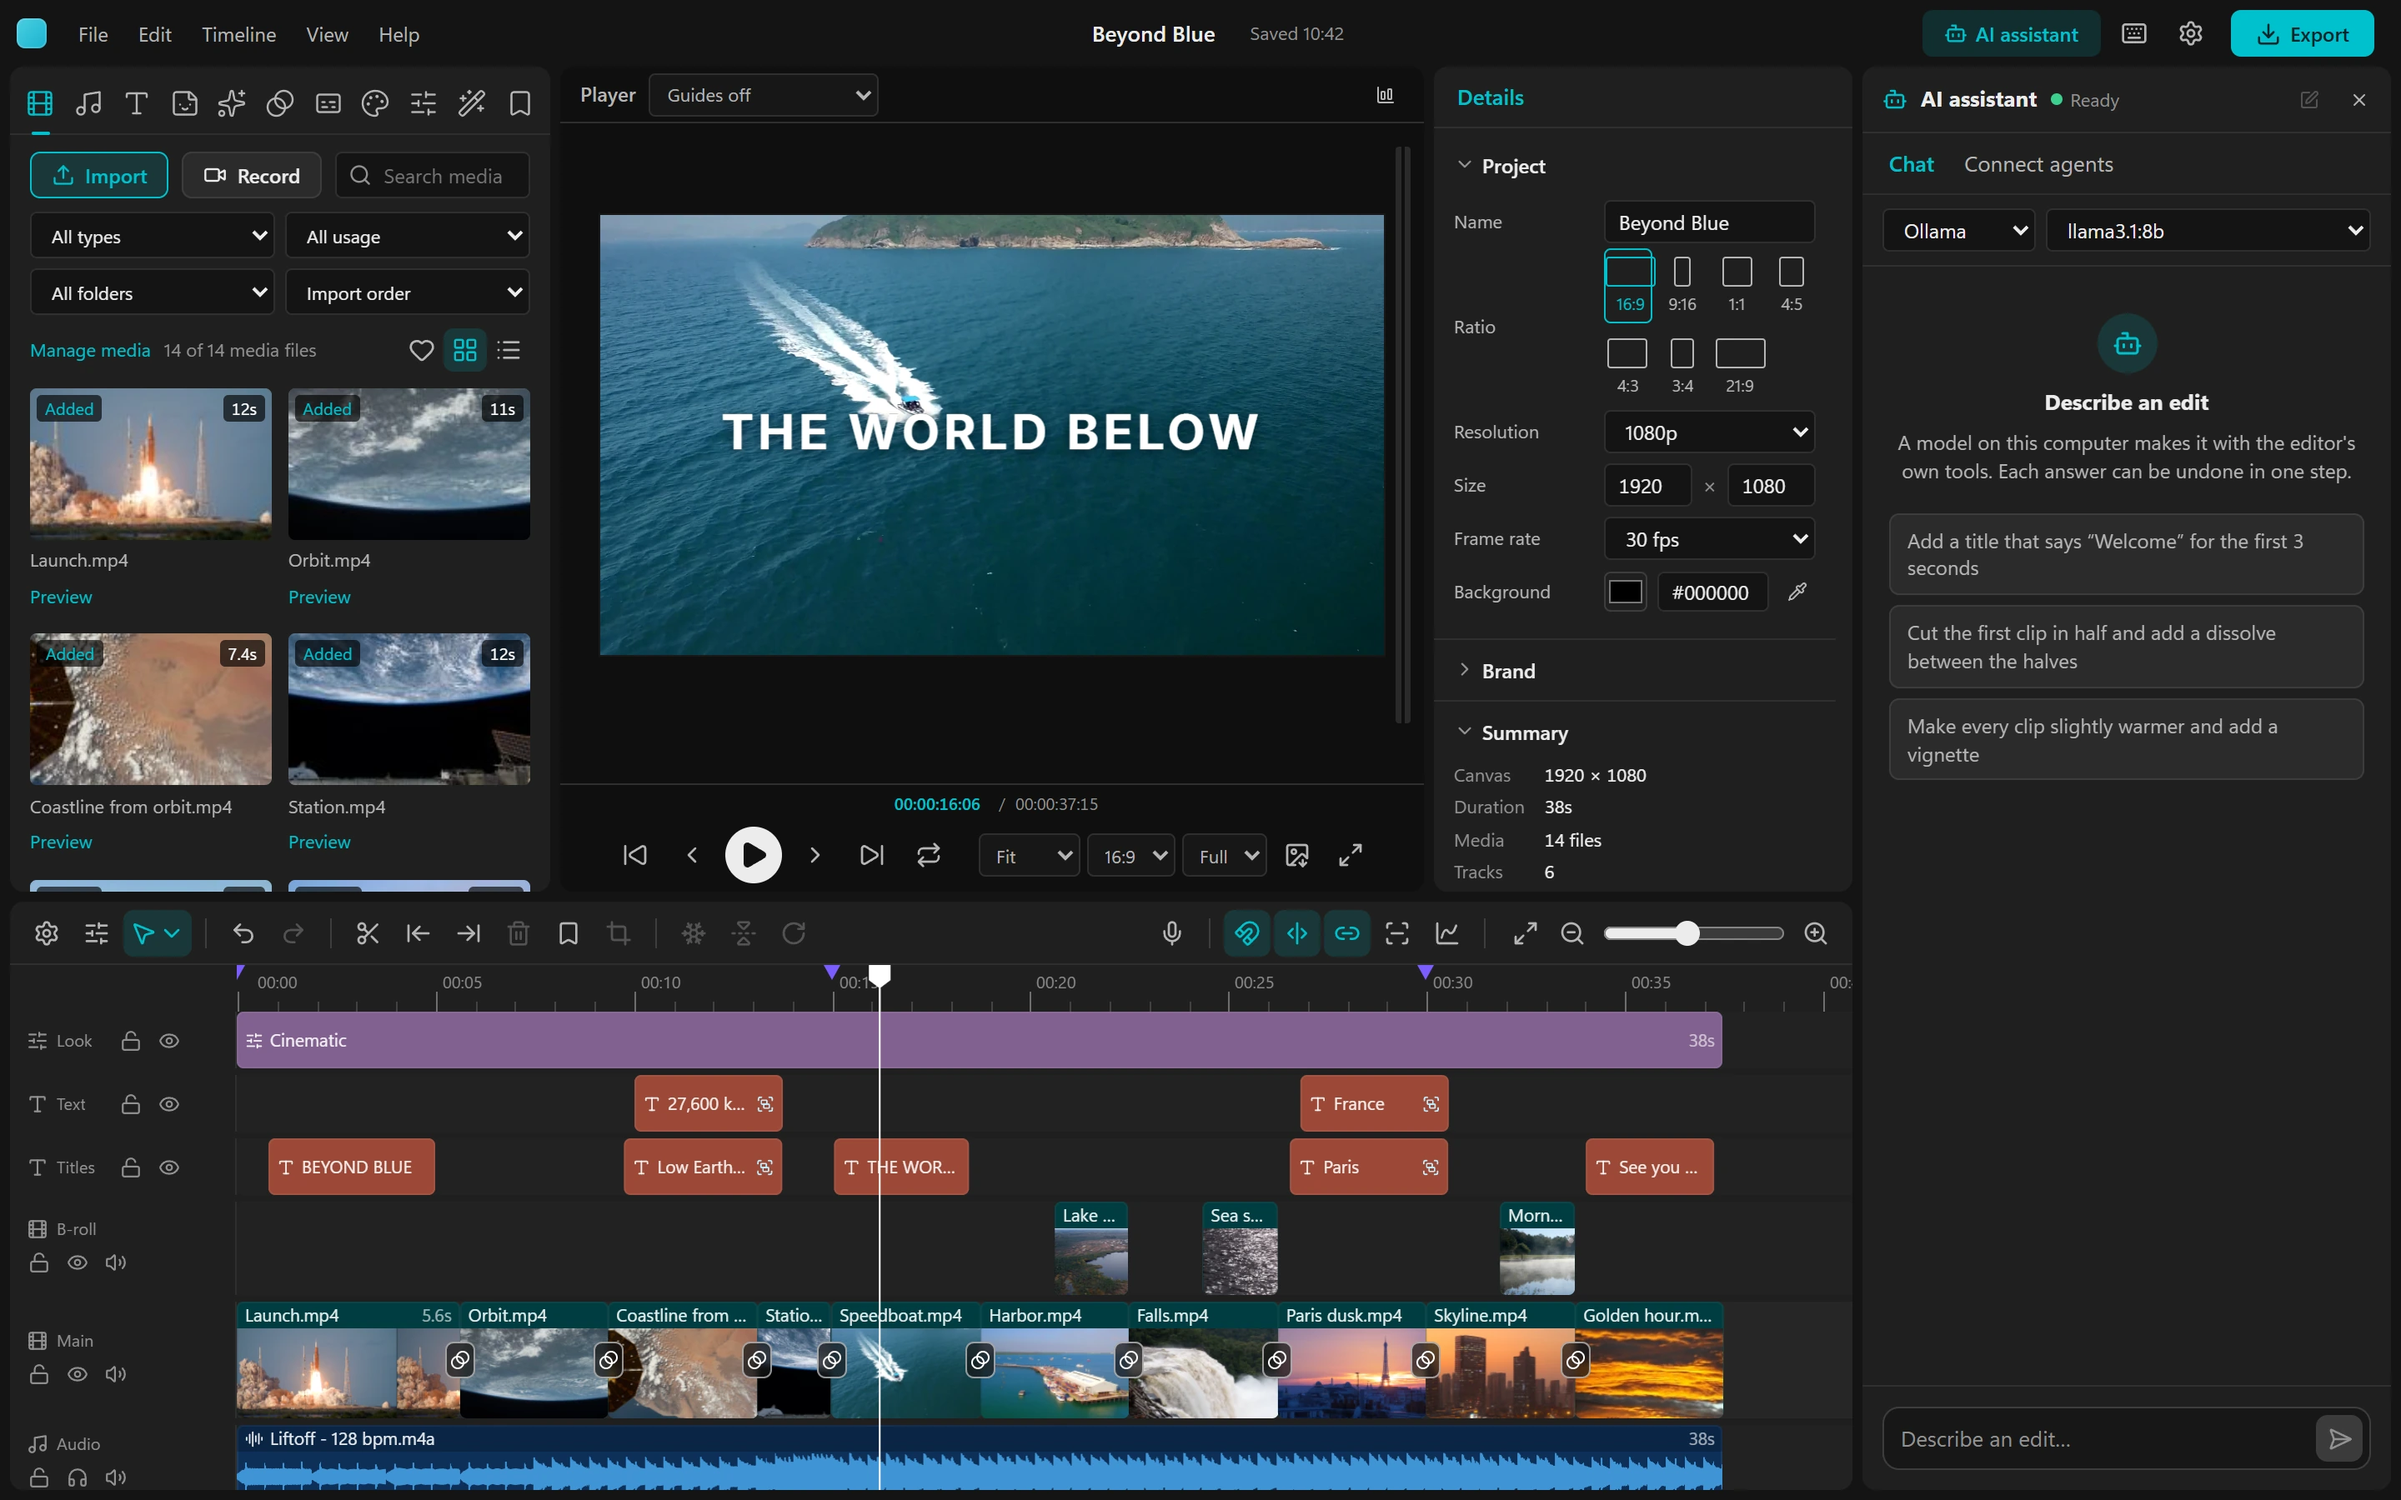
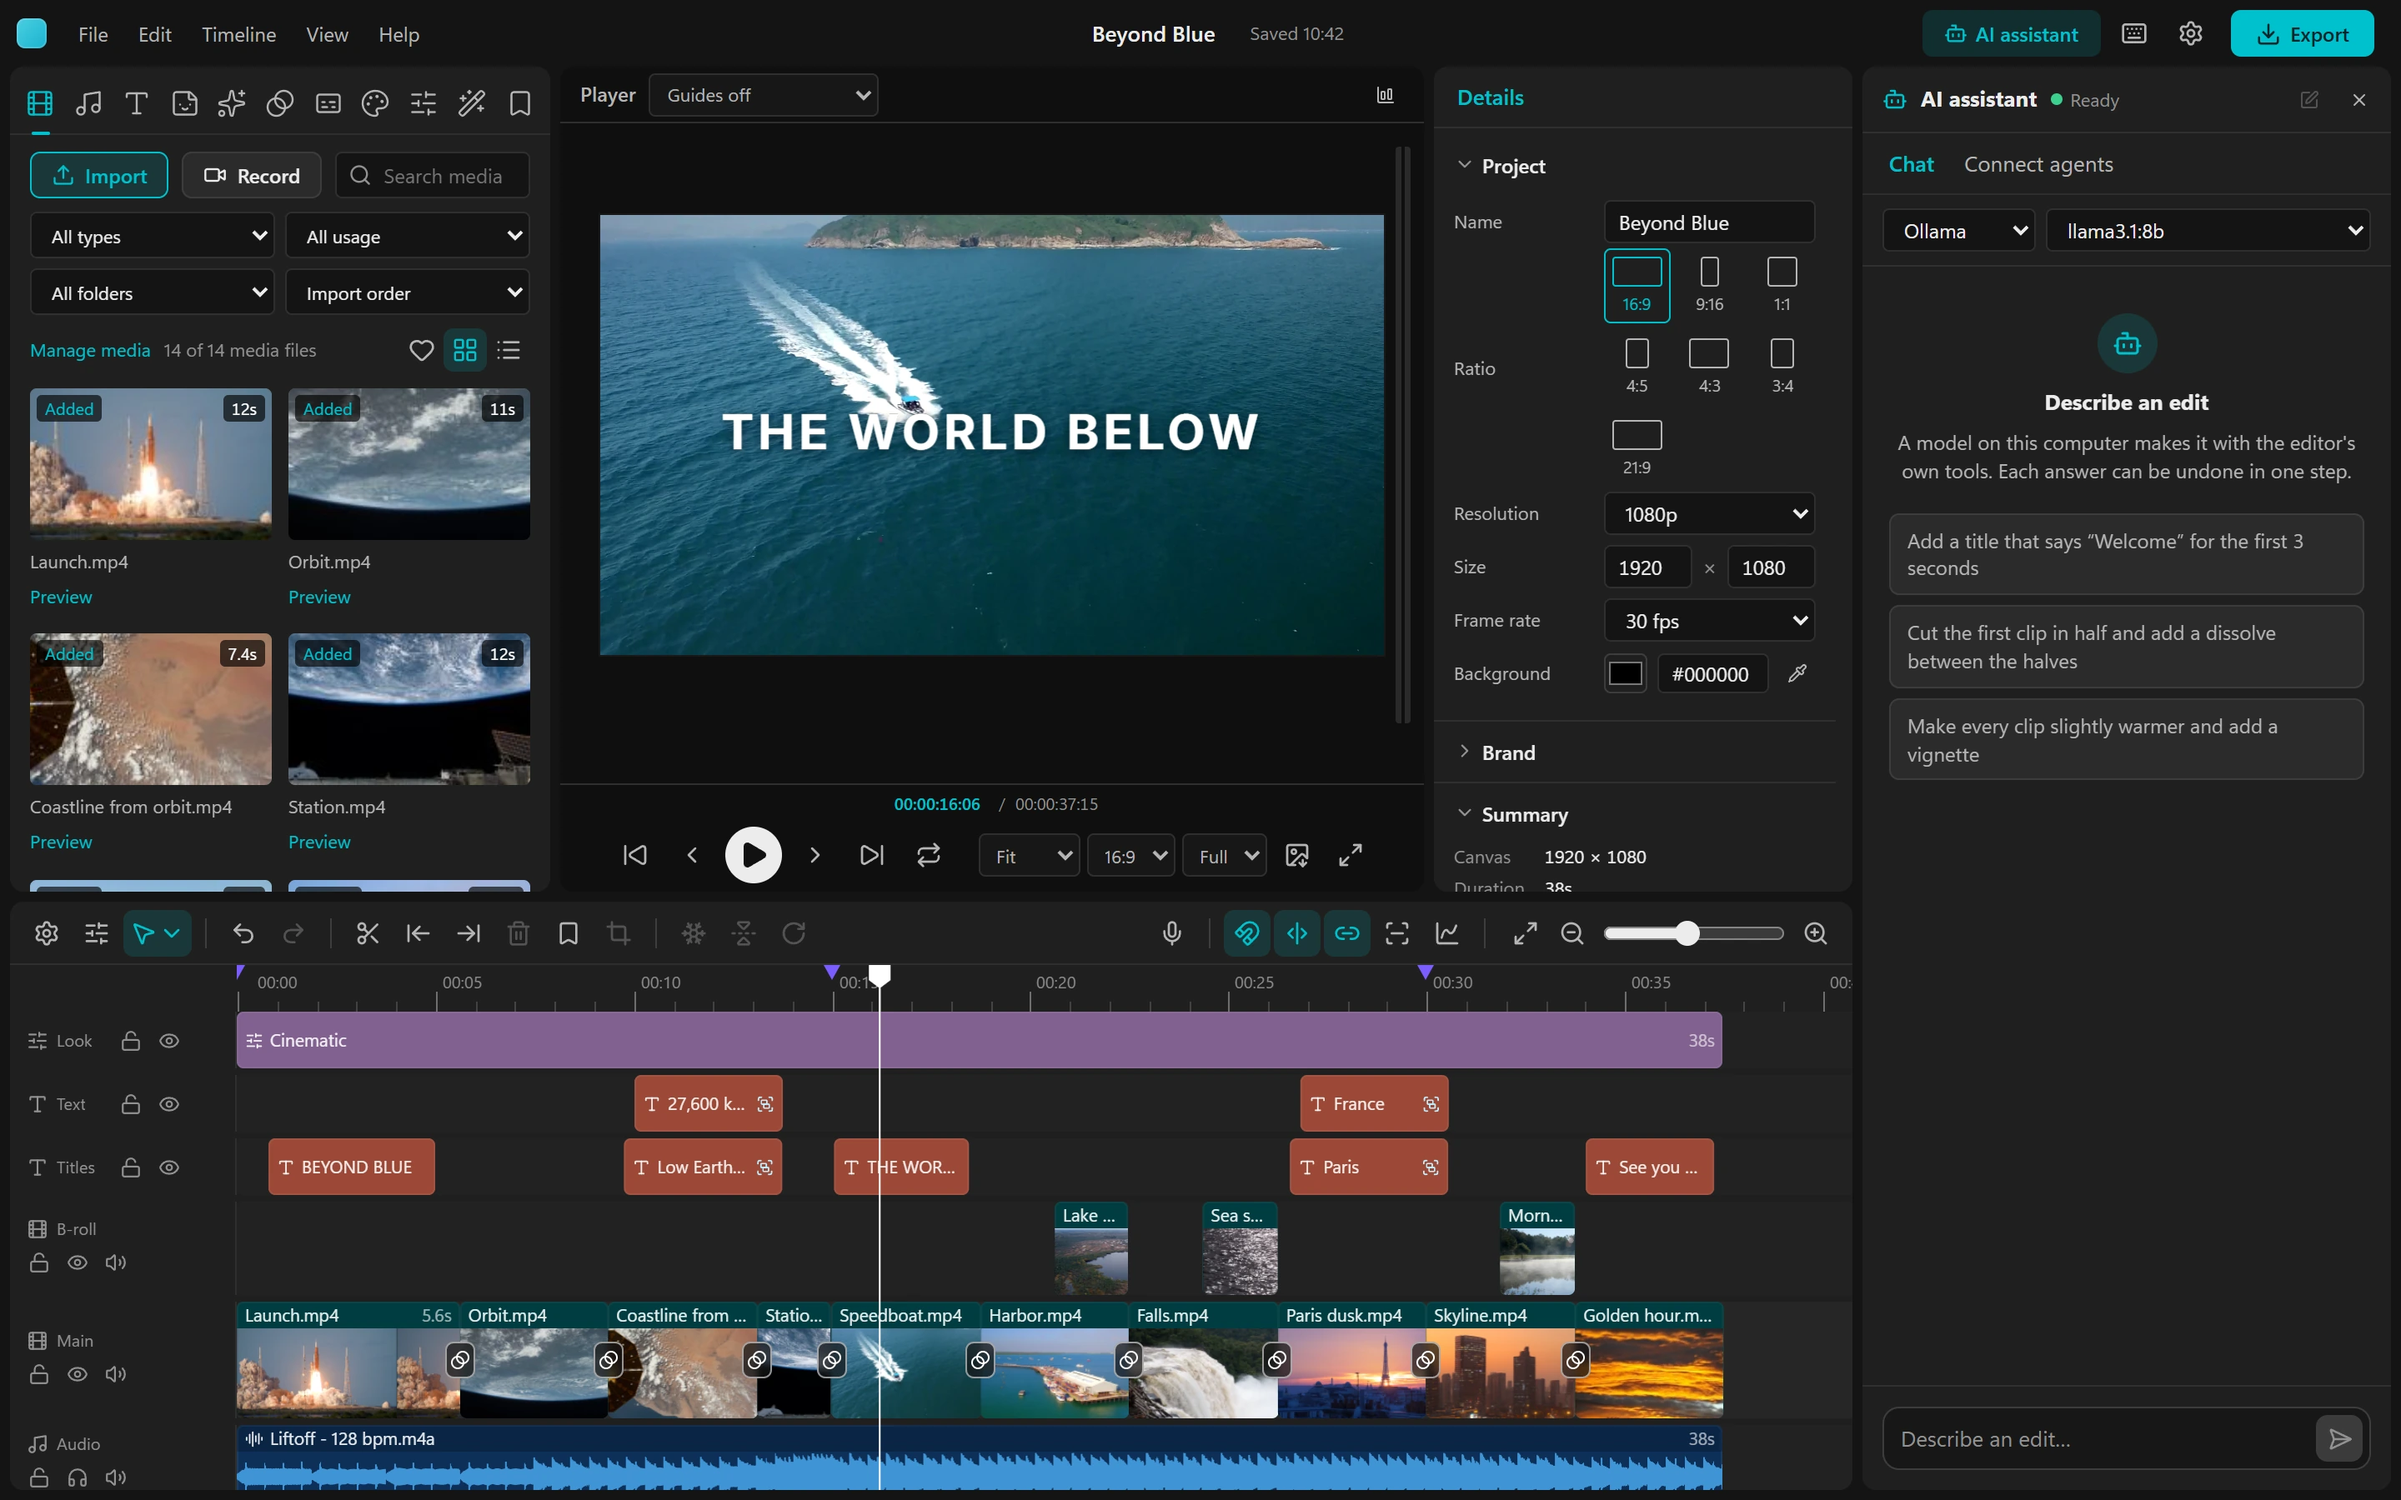
Keep the ratio buttons' auto-fit in narrow inspectors; name the bottom toasts
From the full drive run:
- sizes-inspector: four ratio columns in a 248-251 px inspector leave
  each button 26 px, under the 16:9 and 21:9 boxes' 30 px. Under a
  300 px inspector the grid keeps its auto-fit (three a row); four over
  three from 300 px, one row from 480. The assistant screenshot is
  recaptured to match. All nine sizes pass.
- project-trash: the agent's toast stack is a second .toasts, so the
  drive's strict locator now names the user's (bottom) stack. Passes.

diff --git a/openframe-application/src/components/inspector/inspector.css b/openframe-application/src/components/inspector/inspector.css
@@ -270,8 +270,10 @@ button.key-ease:hover, .key-ease.eased { color: var(--accent); }
 
 /* project details */
 /* Seven ratios: four over three, or one row in a wide inspector; auto-fit
-   left 21:9 alone on a last row at most widths. */
-.ratio-grid { display: grid; grid-template-columns: repeat(4, minmax(0, 1fr)); gap: 4px; }
+   left 21:9 alone on a last row at most widths. Under 300 px four
+   columns are too narrow for the 16:9 and 21:9 boxes, so it stays. */
+.ratio-grid { display: grid; grid-template-columns: repeat(auto-fit, minmax(36px, 1fr)); gap: 4px; }
+@container (min-width: 300px) { .ratio-grid { grid-template-columns: repeat(4, minmax(0, 1fr)); } }
 @container (min-width: 480px) { .ratio-grid { grid-template-columns: repeat(7, minmax(0, 1fr)); } }
 .ratio {
   display: grid; gap: 3px; justify-items: center; padding: 4px 0;

diff --git a/openframe-application/scripts/drive/project-trash.js b/openframe-application/scripts/drive/project-trash.js
@@ -30,7 +30,7 @@ async (page) => {
   await undo.waitFor();
   await card.waitFor({ state: "detached" });
   details.trashed = { ok: (await page.locator(".home-trash").count()) === 1 };
-  await page.locator(".toasts").screenshot({ path: "scratch/project-trash-toast.png" });
+  await page.locator(".toasts:not(.toasts-agent)").screenshot({ path: "scratch/project-trash-toast.png" });
   await undo.click();
   await card.waitFor();
   details.undo = { ok: (await page.locator(".home-trash").count()) === 0 };
